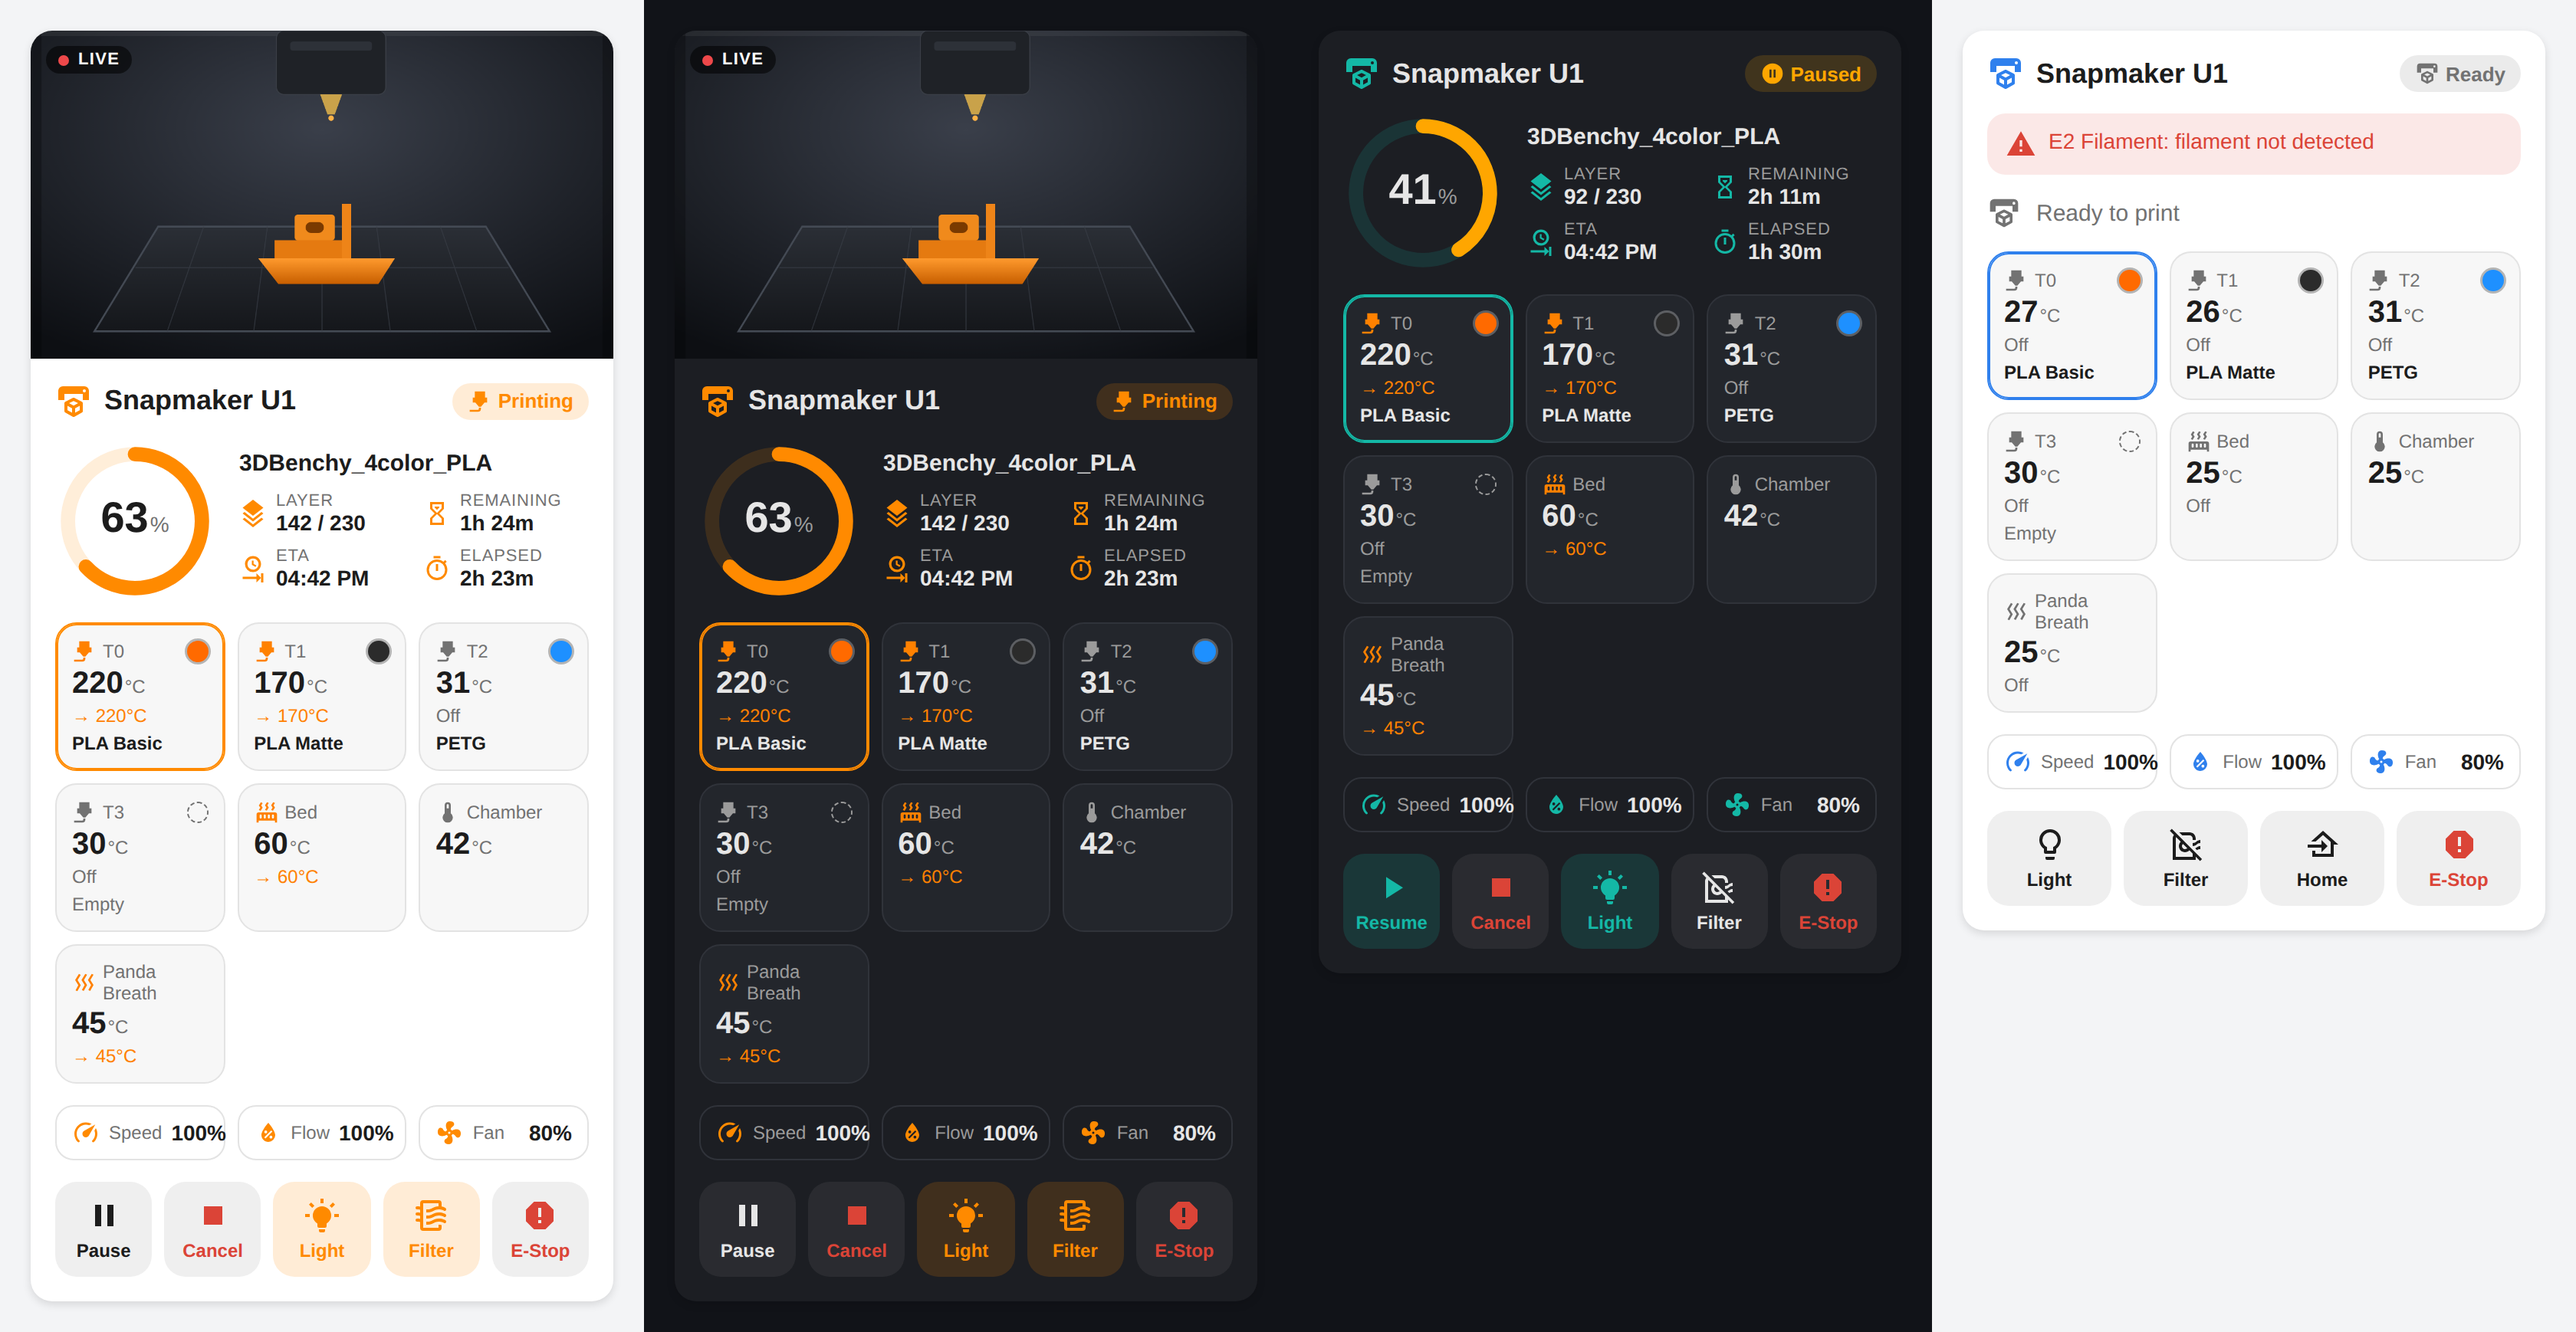
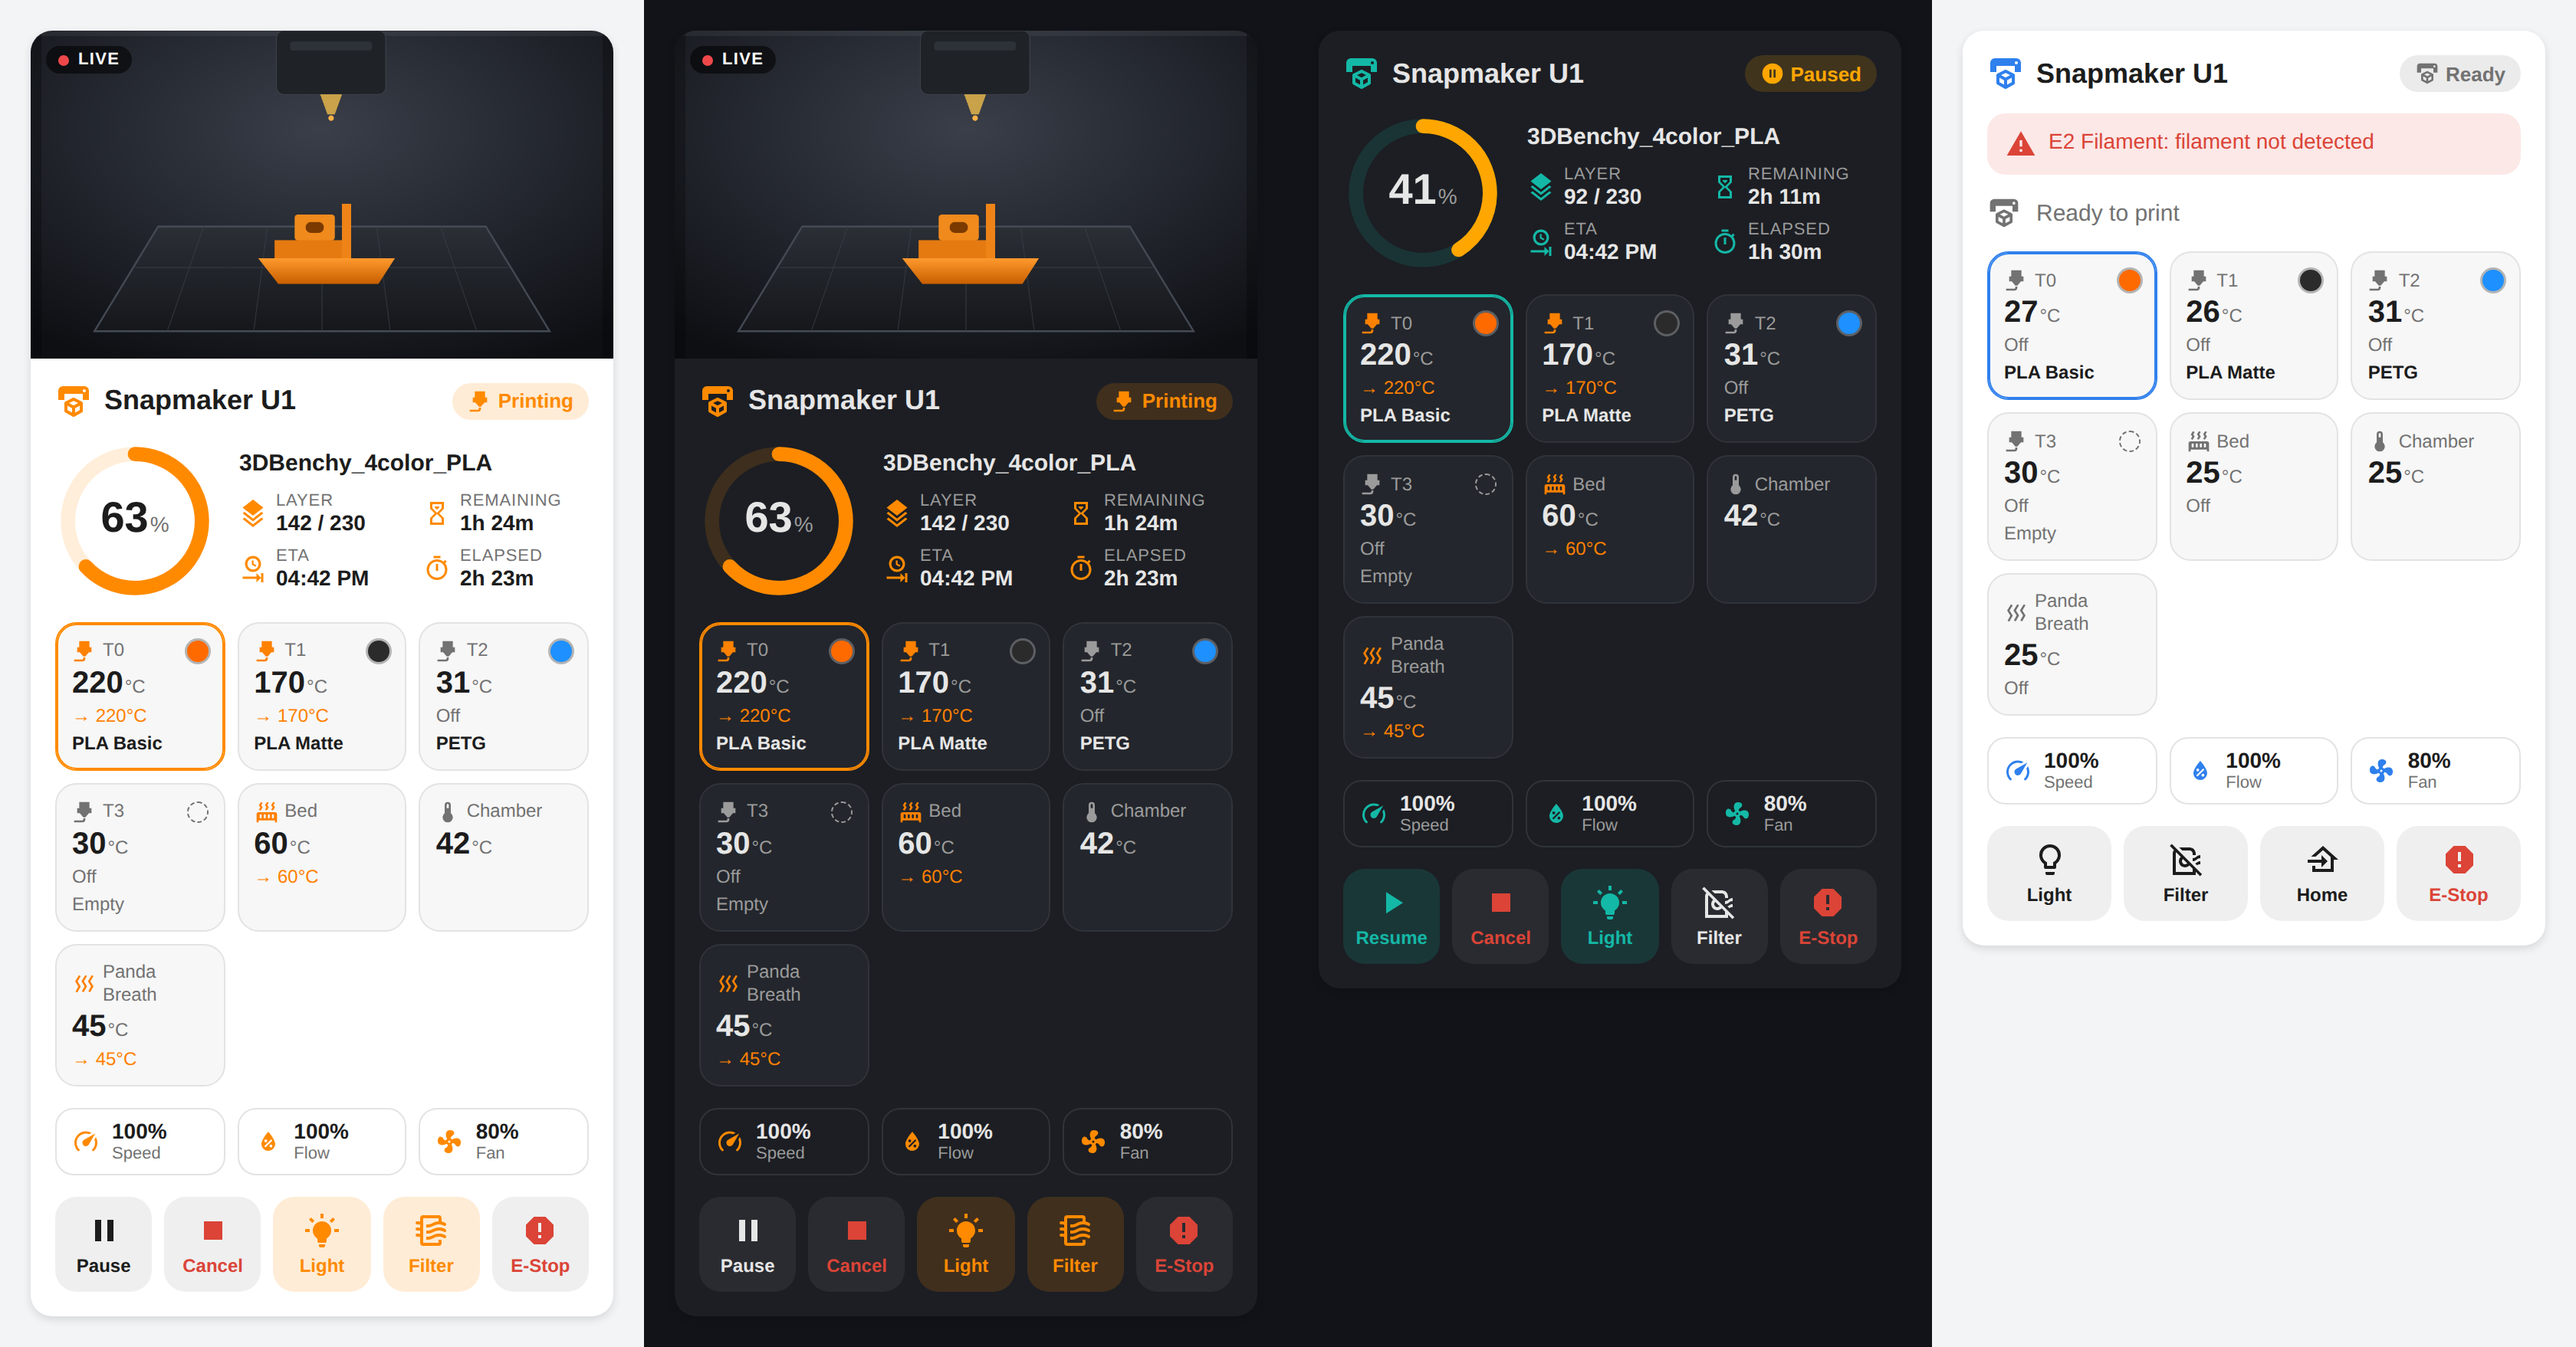
fix: card layout on narrow screens; hide removed chamber heaters
- Long one-word tile labels (DragonBreath) ran out of the tile; break
  camel-case names (Dragon/Breath) and allow wrapping as a fallback.
- Speed/Flow/Fan chips truncated on phones; stack value over label.
- Skip entities HA keeps only as 'restored' leftovers (e.g. a Panda
  Breath replaced by a DragonBreath) so no dead tiles or buttons show.
- Refresh README mockups.

Checked in a real Home Assistant at 390 px and 900 px wide; taps still
work with live updates.

Claude-Session: https://claude.ai/code/session_01EsRxmUdGaFc1xNX579xS7Z

diff --git a/custom_components/snapmaker_u1/www/snapmaker-u1-card.js b/custom_components/snapmaker_u1/www/snapmaker-u1-card.js
@@ -104,6 +104,10 @@ const chamberLabel = (name) => {
   return lower.replace(/_/g, " ").replace(/\b\w/g, (c) => c.toUpperCase());
 };
 
+// "DragonBreath" -> "Dragon<wbr>Breath" so long camel-case names wrap like
+// "Panda Breath" instead of running out of the tile.
+const breakableLabel = (label) => esc(label).replace(/([a-z])([A-Z])/g, "$1<wbr>$2");
+
 const prettyFilename = (name) =>
   String(name || "")
     .split("/")
@@ -208,6 +212,9 @@ class SnapmakerU1Card extends HTMLElement {
   _roles(prefix) {
     return Object.keys(this._printer?.entities || {})
       .filter((role) => role.startsWith(prefix))
+      // Skip leftovers the printer no longer provides (e.g. a Panda Breath
+      // replaced by a DragonBreath): HA keeps them as "restored" entities.
+      .filter((role) => !this._state(role)?.attributes?.restored)
       .sort();
   }
 
@@ -529,7 +536,7 @@ class SnapmakerU1Card extends HTMLElement {
     return `
       <button class="temp ${heating ? "heating" : ""} ${active ? "active" : ""}"
         data-action="more-info" data-entity="${esc(moreInfo || "")}">
-        <div class="temp-head"><ha-icon icon="${icon}"></ha-icon><span>${esc(label)}</span>${this._swatch(filament)}</div>
+        <div class="temp-head"><ha-icon icon="${icon}"></ha-icon><span class="temp-label" title="${esc(label)}">${breakableLabel(label)}</span>${this._swatch(filament)}</div>
         <div class="temp-value">${current != null ? Math.round(current) : "–"}<span>${esc(u)}</span></div>
         <div class="temp-target">${heating ? `→ ${Math.round(target)}${esc(u)}` : target == null ? "&nbsp;" : "Off"}</div>
         ${this._filamentLine(filament)}
@@ -566,8 +573,10 @@ class SnapmakerU1Card extends HTMLElement {
         return `
           <button class="stat" data-action="more-info" data-entity="${esc(this._eid(setpoint) || this._eid(role))}">
             <ha-icon icon="${icon}"></ha-icon>
-            <span class="stat-label">${label}</span>
-            <span class="stat-value">${value != null ? `${Math.round(value)}%` : "–"}</span>
+            <span class="stat-text">
+              <span class="stat-value">${value != null ? `${Math.round(value)}%` : "–"}</span>
+              <span class="stat-label">${label}</span>
+            </span>
           </button>`;
       });
     return stats.length ? `<div class="stats">${stats.join("")}</div>` : "";
@@ -825,6 +834,7 @@ const STYLES = `
   }
   .temp.active { border-color: var(--sm-accent); box-shadow: inset 0 0 0 1px var(--sm-accent); }
   .temp-head { display: flex; align-items: center; gap: 4px; font-size: 12px; color: var(--secondary-text-color); --mdc-icon-size: 16px; }
+  .temp-label { min-width: 0; overflow-wrap: anywhere; line-height: 1.25; }
   .temp.heating .temp-head ha-icon { color: var(--state-climate-heat-color, #ff8100); }
   .temp-value { font-size: 20px; font-weight: 700; }
   .temp-value span { font-size: 12px; font-weight: 500; color: var(--secondary-text-color); margin-left: 1px; }
@@ -842,12 +852,15 @@ const STYLES = `
   .temp.heating .temp-target { color: var(--state-climate-heat-color, #ff8100); }
   .stats { display: flex; gap: 8px; flex-wrap: wrap; }
   .stat {
-    flex: 1; min-width: 90px; display: flex; align-items: center; gap: 6px; padding: 8px 10px; border-radius: 12px;
+    flex: 1; min-width: 72px; display: flex; align-items: center; gap: 8px; padding: 6px 10px; border-radius: 12px;
+    overflow: hidden;
     border: 1px solid var(--divider-color); background: transparent; cursor: pointer; --mdc-icon-size: 18px;
   }
   .stat ha-icon { color: var(--sm-accent); }
-  .stat-label { font-size: 12px; color: var(--secondary-text-color); }
-  .stat-value { margin-left: auto; font-weight: 600; font-size: 14px; }
+  .stat-text { display: flex; flex-direction: column; min-width: 0; text-align: left; line-height: 1.2; }
+  .stat-value { font-weight: 600; font-size: 14px; }
+  .stat-label { font-size: 11px; color: var(--secondary-text-color); white-space: nowrap; overflow: hidden; text-overflow: ellipsis; }
+  .stat ha-icon { flex: none; }
   .controls { display: flex; gap: 8px; flex-wrap: wrap; }
   .control {
     flex: 1; min-width: 58px; display: flex; flex-direction: column; align-items: center; gap: 4px; padding: 10px 6px;
